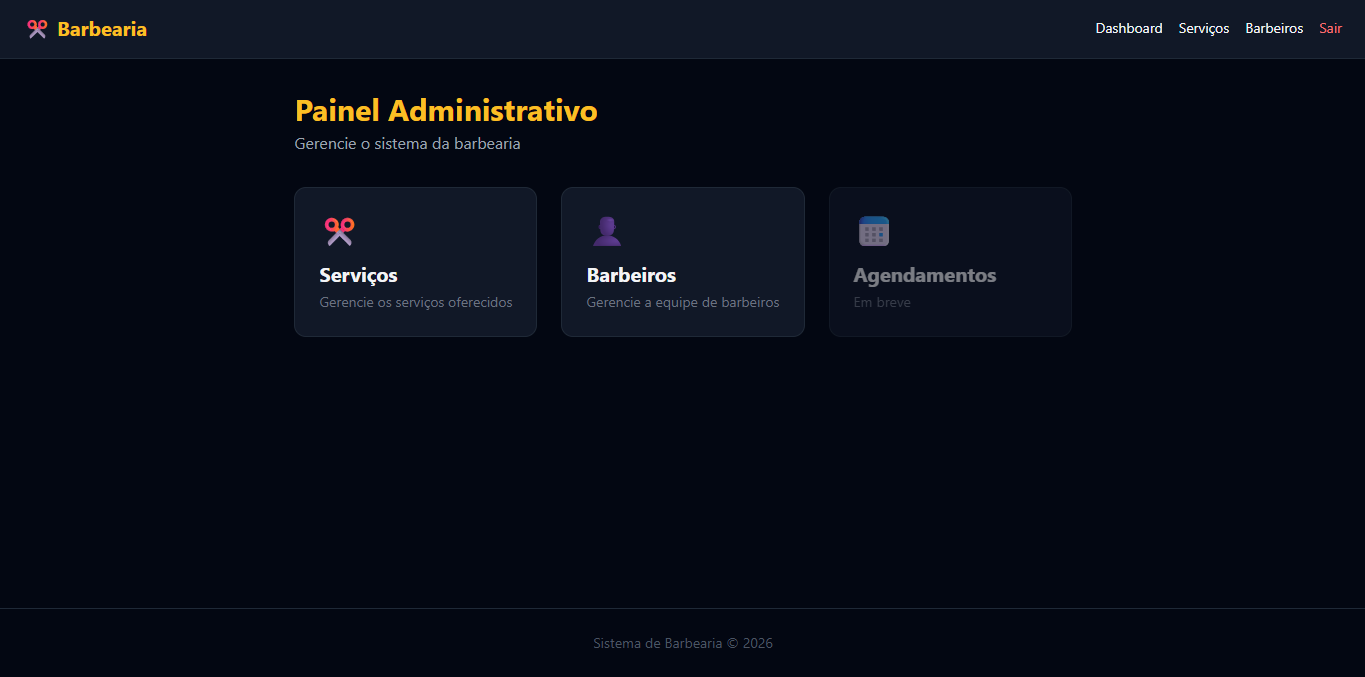
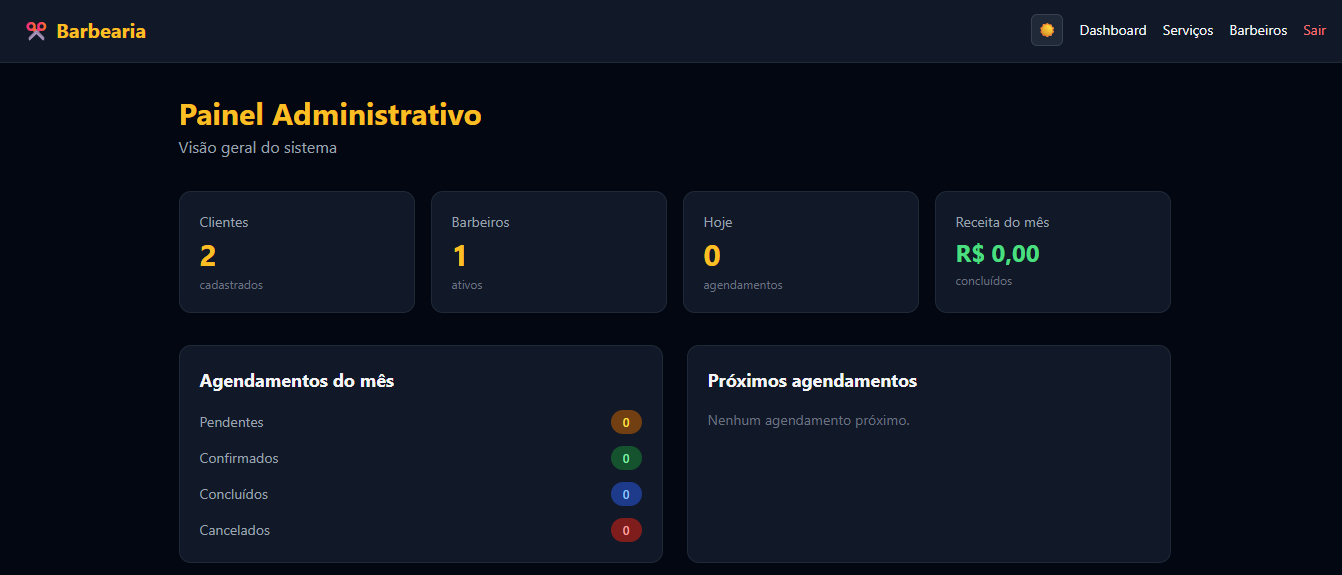
docs: atualiza README com todas as funcionalidades implementadas

diff --git a/README.md b/README.md
@@ -45,6 +45,11 @@ Acesse o sistema em produção: [barb-system.rf.gd/barbearia/login](https://barb
 - Confirmação de reembolso para agendamentos cancelados
 - Geração de relatório de agendamentos por período em PDF
 - Busca em tempo real nas listagens de serviços e barbeiros
+- Configuração de horários de funcionamento por dia da semana
+- Configuração de serviços por barbeiro
+- Visualização de logs do sistema
+- Métricas de desempenho por barbeiro no dashboard
+- Confirmação manual de pagamento PIX
 
 ### Barbeiro
 - Agenda do dia filtrável por data
@@ -75,6 +80,12 @@ Acesse o sistema em produção: [barb-system.rf.gd/barbearia/login](https://barb
 - Geração de PDFs com DOMPDF
 - Logout automático por inatividade com aviso de contagem regressiva
 - Lembrete de agendamento por e-mail 24h antes via cron-job.org
+- Tema claro/escuro com persistência em localStorage
+- Rate limiting na API com headers de controle (X-RateLimit-*)
+- Sistema de logs com visualização no painel admin
+- Testes automatizados com PHPUnit (Paginacao, Csrf, Pix, Logger)
+- Horários de funcionamento configuráveis por dia da semana
+- Serviços configuráveis por barbeiro com filtragem dinâmica via AJAX
 
 ## 🗄 Banco de Dados
 
@@ -120,6 +131,7 @@ cp config/mail.example.php config/mail.php
 | GET | `/api/agendamentos` | Agendamentos do cliente logado |
 | POST | `/api/agendamentos` | Criar novo agendamento |
 | GET | `/api/lembretes?token=X` | Envia lembretes do dia seguinte (cron job) |
+| GET | `/api/servicos/barbeiro?barbeiro_id=X` | Serviços de um barbeiro específico |
 
 ## 📁 Estrutura do projeto
 
@@ -140,7 +152,6 @@ barbearia/
 
 ## 🔮 Próximas funcionalidades
 
-- Integração PIX com webhook do Mercado Pago (confirmação automática de pagamento)
 - Autenticação JWT para a API REST
-- Histórico de alterações visível para o cliente
 - App mobile consumindo a API REST
+- Notificações push no navegador
